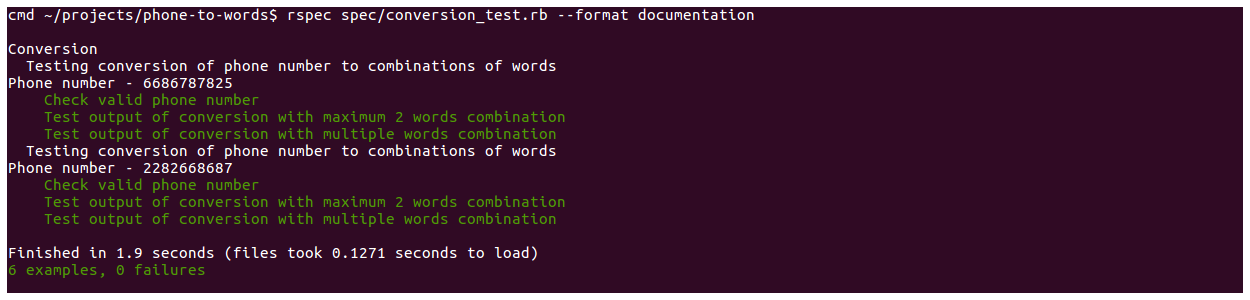
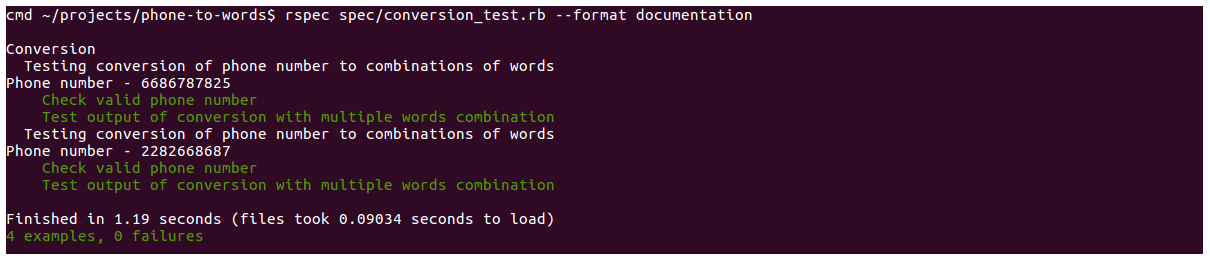
code restructure

diff --git a/spec/conversion_test.rb b/spec/conversion_test.rb
@@ -4,14 +4,33 @@ require_relative '../lib/conversion.rb'
 
 describe Conversion do
   let(:phone1) { '6686787825' }
-  let(:result1_2words) { [%w[NOUN STRUCK], %w[ONTO STRUCK], %w[MOTOR TRUCK],
-                          %w[MOTOR USUAL], %w[NOUNS TRUCK], %w[NOUNS USUAL],
-                          'MOTORTRUCK'] }
+  let(:result1) { [%w[NOUN STRUCK], %w[ONTO STRUCK], %w[MOTOR TRUCK], %w[MOTOR USUAL],
+                   %w[NOUNS TRUCK], %w[NOUNS USUAL], %w[MOT OPT PUCK], %w[MOT OPT RUCK],
+                   %w[MOT OPT SUCK], %w[MOT ORT PUCK], %w[MOT ORT RUCK], %w[MOT ORT SUCK],
+                   %w[NOT OPT PUCK], %w[NOT OPT RUCK], %w[NOT OPT SUCK], %w[NOT ORT PUCK],
+                   %w[NOT ORT RUCK], %w[NOT ORT SUCK], %w[OOT OPT PUCK], %w[OOT OPT RUCK],
+                   %w[OOT OPT SUCK], %w[OOT ORT PUCK], %w[OOT ORT RUCK], %w[OOT ORT SUCK],
+                   %w[MOT OPTS TAJ], %w[MOT OPUS TAJ], %w[MOT ORTS TAJ], %w[NOT OPTS TAJ],
+                   %w[NOT OPUS TAJ], %w[NOT ORTS TAJ], %w[OOT OPTS TAJ], %w[OOT OPUS TAJ],
+                   %w[OOT ORTS TAJ], %w[NOUN PUP TAJ], %w[NOUN PUR TAJ], %w[NOUN PUS TAJ],
+                   %w[NOUN SUP TAJ], %w[NOUN SUQ TAJ], %w[ONTO PUP TAJ], %w[ONTO PUR TAJ],
+                   %w[ONTO PUS TAJ], %w[ONTO SUP TAJ], %w[ONTO SUQ TAJ], 'MOTORTRUCK'] }
 
   let(:phone2) { '2282668687' }
-  let(:result2_2words) { [%w[ACT AMOUNTS], %w[ACT CONTOUR], %w[BAT AMOUNTS],
-                          %w[BAT CONTOUR], %w[CAT AMOUNTS], %w[CAT CONTOUR],
-                          %w[ACTA MOUNTS], 'CATAMOUNTS'] }
+  let(:result2) { [%w[ACT BOO TOTS], %w[ACT BOO TOUR], %w[ACT CON TOTS], %w[ACT CON TOUR],
+                   %w[ACT COO TOTS], %w[ACT COO TOUR], %w[BAT BOO TOTS], %w[BAT BOO TOUR],
+                   %w[BAT CON TOTS], %w[BAT CON TOUR], %w[BAT COO TOTS], %w[BAT COO TOUR],
+                   %w[CAT BOO TOTS], %w[CAT BOO TOUR], %w[CAT CON TOTS], %w[CAT CON TOUR],
+                   %w[CAT COO TOTS], %w[CAT COO TOUR], %w[ACT BOOT MUS], %w[ACT BOOT NUS],
+                   %w[ACT BOOT OUR], %w[ACT COOT MUS], %w[ACT COOT NUS], %w[ACT COOT OUR],
+                   %w[BAT BOOT MUS], %w[BAT BOOT NUS], %w[BAT BOOT OUR], %w[BAT COOT MUS],
+                   %w[BAT COOT NUS], %w[BAT COOT OUR], %w[CAT BOOT MUS], %w[CAT BOOT NUS],
+                   %w[CAT BOOT OUR], %w[CAT COOT MUS], %w[CAT COOT NUS], %w[CAT COOT OUR],
+                   %w[ACT AMOUNTS], %w[ACT CONTOUR], %w[BAT AMOUNTS], %w[BAT CONTOUR],
+                   %w[CAT AMOUNTS], %w[CAT CONTOUR], %w[ACTA MOT MUS], %w[ACTA MOT NUS],
+                   %w[ACTA MOT OUR], %w[ACTA NOT MUS], %w[ACTA NOT NUS], %w[ACTA NOT OUR],
+                   %w[ACTA OOT MUS], %w[ACTA OOT NUS], %w[ACTA OOT OUR],
+                   %w[ACTA MOUNTS], 'CATAMOUNTS'] }
 
   context 'Testing conversion of phone number to combinations of words ' do
     it 'Check valid phone number' do
@@ -20,14 +39,9 @@ describe Conversion do
       expect(object.valid_phone_number?).to be(true)
     end
 
-    it 'Test output of conversion with maximum 2 words combination' do
-      object = Conversion.new(phone1)
-      expect(object.number_to_words_combinations).to match_array(result1_2words)
-    end
-
     it 'Test output of conversion with multiple words combination' do
       object = Conversion.new(phone1)
-      expect(object.number_to_multiple_combinations).to match_array(result1_2words)
+      expect(object.number_to_multiple_combinations).to match_array(result1)
     end
   end
 
@@ -38,14 +52,9 @@ describe Conversion do
       expect(object.valid_phone_number?).to be(true)
     end
 
-    it 'Test output of conversion with maximum 2 words combination' do
-      object = Conversion.new(phone2)
-      expect(object.number_to_words_combinations).to match_array(result2_2words)
-    end
-
     it 'Test output of conversion with multiple words combination' do
       object = Conversion.new(phone2)
-      expect(object.number_to_multiple_combinations).to match_array(result2_2words)
+      expect(object.number_to_multiple_combinations).to match_array(result2)
     end
   end
 end

diff --git a/lib/conversion.rb b/lib/conversion.rb
@@ -81,17 +81,22 @@ class Conversion
 
     parse_dictionary
     extract_words
-    @correct_words << (@phone_keys.shift.product(*@phone_keys).map(&:join) & @dictionary).join(', ')
-    @correct_words.uniq!
-    @correct_words
   end
 
-  def number_to_multiple_combinations
-    number_to_words_combinations
+  def fetch_combinations
     # Fetch from combinations 3+3+4, 3+4+3, 4+3+3
     get_correct_words([@phone_keys[0..2], @phone_keys[3..5], @phone_keys[6..9]])
     get_correct_words([@phone_keys[0..2], @phone_keys[3..6], @phone_keys[7..9]])
     get_correct_words([@phone_keys[0..3], @phone_keys[4..6], @phone_keys[7..9]])
+
+    # it should be in last as it's shifting @phone_keys
+    @correct_words << (@phone_keys.shift.product(*@phone_keys).map(&:join) & @dictionary).join(', ')
+  end
+
+  def number_to_multiple_combinations
+    number_to_words_combinations
+    fetch_combinations
+    @correct_words.uniq!
     @correct_words.reject! { |x| x.join.length < 10 if x.is_a?(Array) || x.length < 10 }
     @correct_words
   end

diff --git a/lib/benchmark.rb b/lib/benchmark.rb
@@ -2,6 +2,6 @@
 
 require_relative 'conversion.rb'
 puts 'Please enter the 10 digit mobile number :'
-phone_number = '2282668687' # gets.chomp
+puts phone_number = '6686787825' # gets.chomp
 object = Conversion.new(phone_number)
-p object.number_to_words_combinations
+p object.number_to_multiple_combinations

diff --git a/README.md b/README.md
@@ -56,14 +56,12 @@ bundle install
 ### Execution
 
 - `rspec spec/conversion_test.rb --format documentation`
-- `time ruby lib/benchmark1.rb`
-- `time ruby lib/benchmark2.rb`
+- `time ruby lib/benchmark.rb`
 
 
 ### Program output.
 
-   ![](assets/images/result-1-with-time.png?raw=true)
-   ![](assets/images/result-2-with-time.png?raw=true)
+   ![](assets/images/result-with-benchmark.png?raw=true)
   
 ### Test case output.
 
